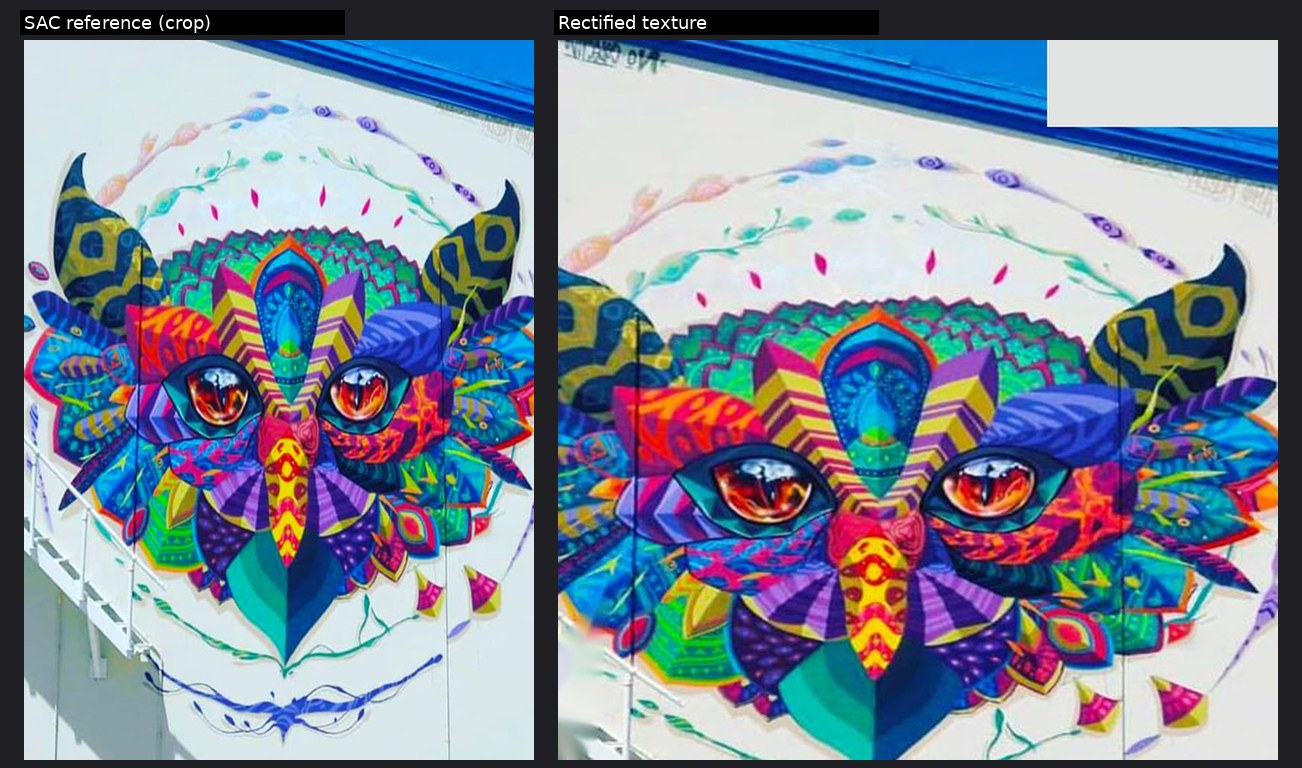
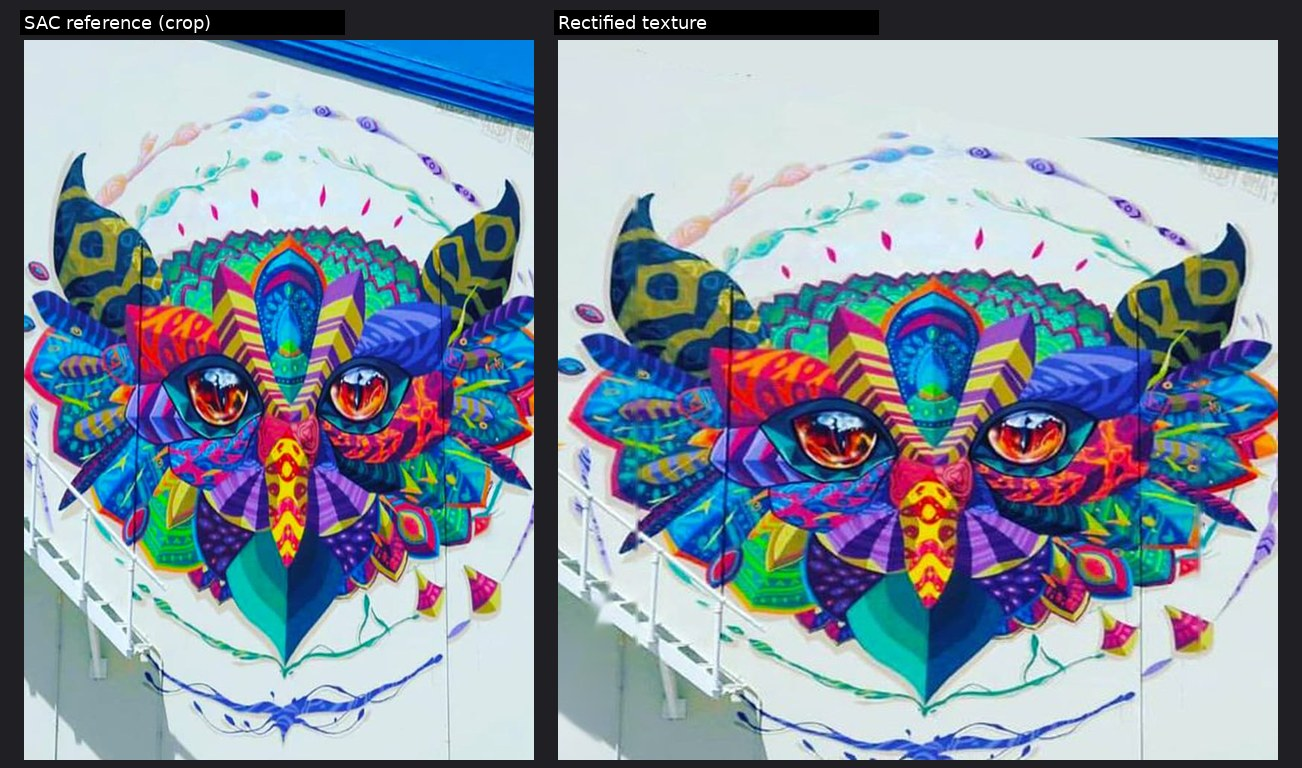
night_watcher: diagonal roof polygon fill, wider quad, seam inpaint
- Auto roof polygon from top-band blue edge; wall colour sampled along edge
- Extend homography quad left/down for full ears and bottom ring
- Thin global inpaint rects for panel seams; remnant sky strip cleanup

diff --git a/tools/mural_rectify.py b/tools/mural_rectify.py
@@ -77,15 +77,117 @@ def _apply_patches(bgr: np.ndarray, patches: list[dict], w: int, h: int) -> np.n
     return out
 
 
+def _wall_pixels_median_bgr(roi: np.ndarray) -> tuple[int, int, int]:
+    if roi.size == 0:
+        return (245, 245, 245)
+    flat = roi.reshape(-1, 3)
+    hsv = cv2.cvtColor(roi, cv2.COLOR_BGR2HSV)
+    sat = hsv[:, :, 1].reshape(-1)
+    val = hsv[:, :, 2].reshape(-1)
+    wall = (sat < 45) & (val > 165)
+    if wall.sum() > 30:
+        flat = flat[wall]
+    med = np.median(flat, axis=0)
+    return int(med[0]), int(med[1]), int(med[2])
+
+
 def _sample_wall_bgr(bgr: np.ndarray, rect: list[float]) -> tuple[int, int, int]:
-    """Median BGR in a normalized rect (plain wall sample)."""
+    """Median BGR of low-saturation pixels in a normalized rect (plain wall)."""
     h, w = bgr.shape[:2]
     x0, y0, x1, y1 = rect
     roi = bgr[int(y0 * h) : int(y1 * h), int(x0 * w) : int(x1 * w)]
-    if roi.size == 0:
-        return (245, 245, 245)
-    med = np.median(roi.reshape(-1, 3), axis=0)
-    return int(med[0]), int(med[1]), int(med[2])
+    return _wall_pixels_median_bgr(roi)
+
+
+def _sample_wall_below_roof(
+    bgr: np.ndarray,
+    roof_y_left: float,
+    roof_y_right: float,
+    xs: list[float],
+    band: float = 0.018,
+) -> tuple[int, int, int]:
+    """Sample wall colour in strips just under the roof diagonal."""
+    h, w = bgr.shape[:2]
+    patches: list[np.ndarray] = []
+    for x in xs:
+        y_roof = roof_y_left + x * (roof_y_right - roof_y_left)
+        y0 = y_roof + band * 0.35
+        y1 = y_roof + band
+        x0, x1 = max(0.0, x - 0.025), min(1.0, x + 0.025)
+        roi = bgr[int(y0 * h) : int(y1 * h), int(x0 * w) : int(x1 * w)]
+        if roi.size:
+            patches.append(roi)
+    if not patches:
+        return _sample_wall_bgr(bgr, [0.03, 0.04, 0.10, 0.12])
+    return _wall_pixels_median_bgr(np.concatenate(patches, axis=0))
+
+
+def _auto_roof_fill_poly(bgr: np.ndarray, max_row_frac: float = 0.11) -> list[list[float]] | None:
+    """Polygon covering roof/sky in the top band (above detected blue edge)."""
+    h, w = bgr.shape[:2]
+    band = max(8, int(h * max_row_frac))
+    hsv = cv2.cvtColor(bgr[:band], cv2.COLOR_BGR2HSV)
+    roof = (
+        (hsv[:, :, 0] >= 88)
+        & (hsv[:, :, 0] <= 125)
+        & (hsv[:, :, 1] >= 50)
+        & (hsv[:, :, 2] >= 105)
+    )
+    roof = cv2.dilate(roof.astype(np.uint8), np.ones((3, 3), np.uint8), iterations=1) > 0
+    edge = np.zeros(w, dtype=np.float32)
+    for x in range(w):
+        ys = np.where(roof[:, x])[0]
+        if len(ys):
+            edge[x] = (ys.max() + 4) / h
+    if not np.any(edge > 0):
+        return None
+    # Interpolate gaps (plain wall columns between roof segments).
+    pos = edge > 0
+    if pos.sum() >= 2:
+        xp = np.flatnonzero(pos)
+        edge = np.interp(np.arange(w), xp, edge[xp]).astype(np.float32)
+    cap = max_row_frac + 0.025
+    edge = np.minimum(edge, cap)
+    poly: list[list[float]] = [[0.0, 0.0], [1.0, 0.0]]
+    step = max(1, w // 18)
+    for x in range(w - 1, -1, -step):
+        poly.append([x / w, float(edge[x])])
+    poly.append([0.0, float(edge[0])])
+    return poly
+
+
+def _sample_wall_along_roof_edge(bgr: np.ndarray, poly: list[list[float]], band: float = 0.022) -> tuple[int, int, int]:
+    h, w = bgr.shape[:2]
+    patches: list[np.ndarray] = []
+    # poly bottom edge: points from right to left (skip top corners).
+    edge_pts = poly[2:-1] + [poly[-1]]
+    for x, y in edge_pts:
+        y0 = min(h - 2, int((y + band * 0.3) * h))
+        y1 = min(h, int((y + band) * h))
+        x0 = max(0, int((x - 0.03) * w))
+        x1 = min(w, int((x + 0.03) * w))
+        if y1 <= y0 + 1:
+            continue
+        roi = bgr[y0:y1, x0:x1]
+        if roi.size:
+            patches.append(roi)
+    if patches:
+        meds = [_wall_pixels_median_bgr(p) for p in patches]
+        arr = np.array(meds, dtype=np.float32)
+        med = np.median(arr, axis=0)
+        return int(med[0]), int(med[1]), int(med[2])
+    return _sample_wall_bgr(bgr, [0.03, 0.04, 0.10, 0.12])
+
+
+def _flat_fill_polys(bgr: np.ndarray, polys: list[list[list[float]]], color_bgr: tuple[int, int, int]) -> np.ndarray:
+    out = bgr.copy()
+    h, w = out.shape[:2]
+    for poly in polys:
+        pts = np.array([[int(x * w), int(y * h)] for x, y in poly], dtype=np.int32)
+        mask = np.zeros((h, w), dtype=np.uint8)
+        cv2.fillPoly(mask, [pts], 255)
+        out[mask > 0] = color_bgr
+    return out
 
 
 def _flat_fill_rects(bgr: np.ndarray, rects: list[list[float]], color_bgr: tuple[int, int, int]) -> np.ndarray:
@@ -354,6 +456,38 @@ def rectify_one(mural_id: str, target_h: int = DEFAULT_TARGET_H) -> Path:
     r = int(margin.get("right", 0) * w)
     if t or b or l or r:
         warped = warped[t : h - b if b else h, l : w - r if r else w]
+
+    fill_polys = cfg.get("flat_fill_polys")
+    if cfg.get("auto_roof_fill"):
+        auto_poly = _auto_roof_fill_poly(warped, float(cfg.get("auto_roof_max_row", 0.11)))
+        if auto_poly:
+            fill_polys = [auto_poly]
+    if fill_polys:
+        roof = cfg.get("roof_line")
+        if cfg.get("auto_roof_fill"):
+            wall = _sample_wall_along_roof_edge(warped, fill_polys[0])
+        elif roof and len(roof) >= 2:
+            xs = cfg.get("wall_sample_xs") or [0.12, 0.22, 0.38, 0.52, 0.68]
+            wall = _sample_wall_below_roof(warped, float(roof[0]), float(roof[1]), xs)
+        else:
+            ys_left = fill_polys[0][-1][1] if fill_polys[0] else 0.08
+            ys_right = fill_polys[0][2][1] if len(fill_polys[0]) > 2 else 0.03
+            xs = cfg.get("wall_sample_xs") or [0.14, 0.28, 0.42, 0.56, 0.72]
+            wall = _sample_wall_below_roof(warped, float(ys_left), float(ys_right), xs)
+        warped = _flat_fill_polys(warped, fill_polys, wall)
+        if cfg.get("auto_roof_fill"):
+            h0, w0 = warped.shape[:2]
+            top_h = max(6, int(h0 * 0.085))
+            region = warped[:top_h]
+            hsv = cv2.cvtColor(region, cv2.COLOR_BGR2HSV)
+            remnant = (
+                (hsv[:, :, 0] >= 86)
+                & (hsv[:, :, 0] <= 126)
+                & (hsv[:, :, 1] >= 52)
+                & (hsv[:, :, 2] >= 108)
+            )
+            region[remnant] = wall
+            warped[:top_h] = region
 
     fill_rects = cfg.get("flat_fill_rects")
     if fill_rects:
